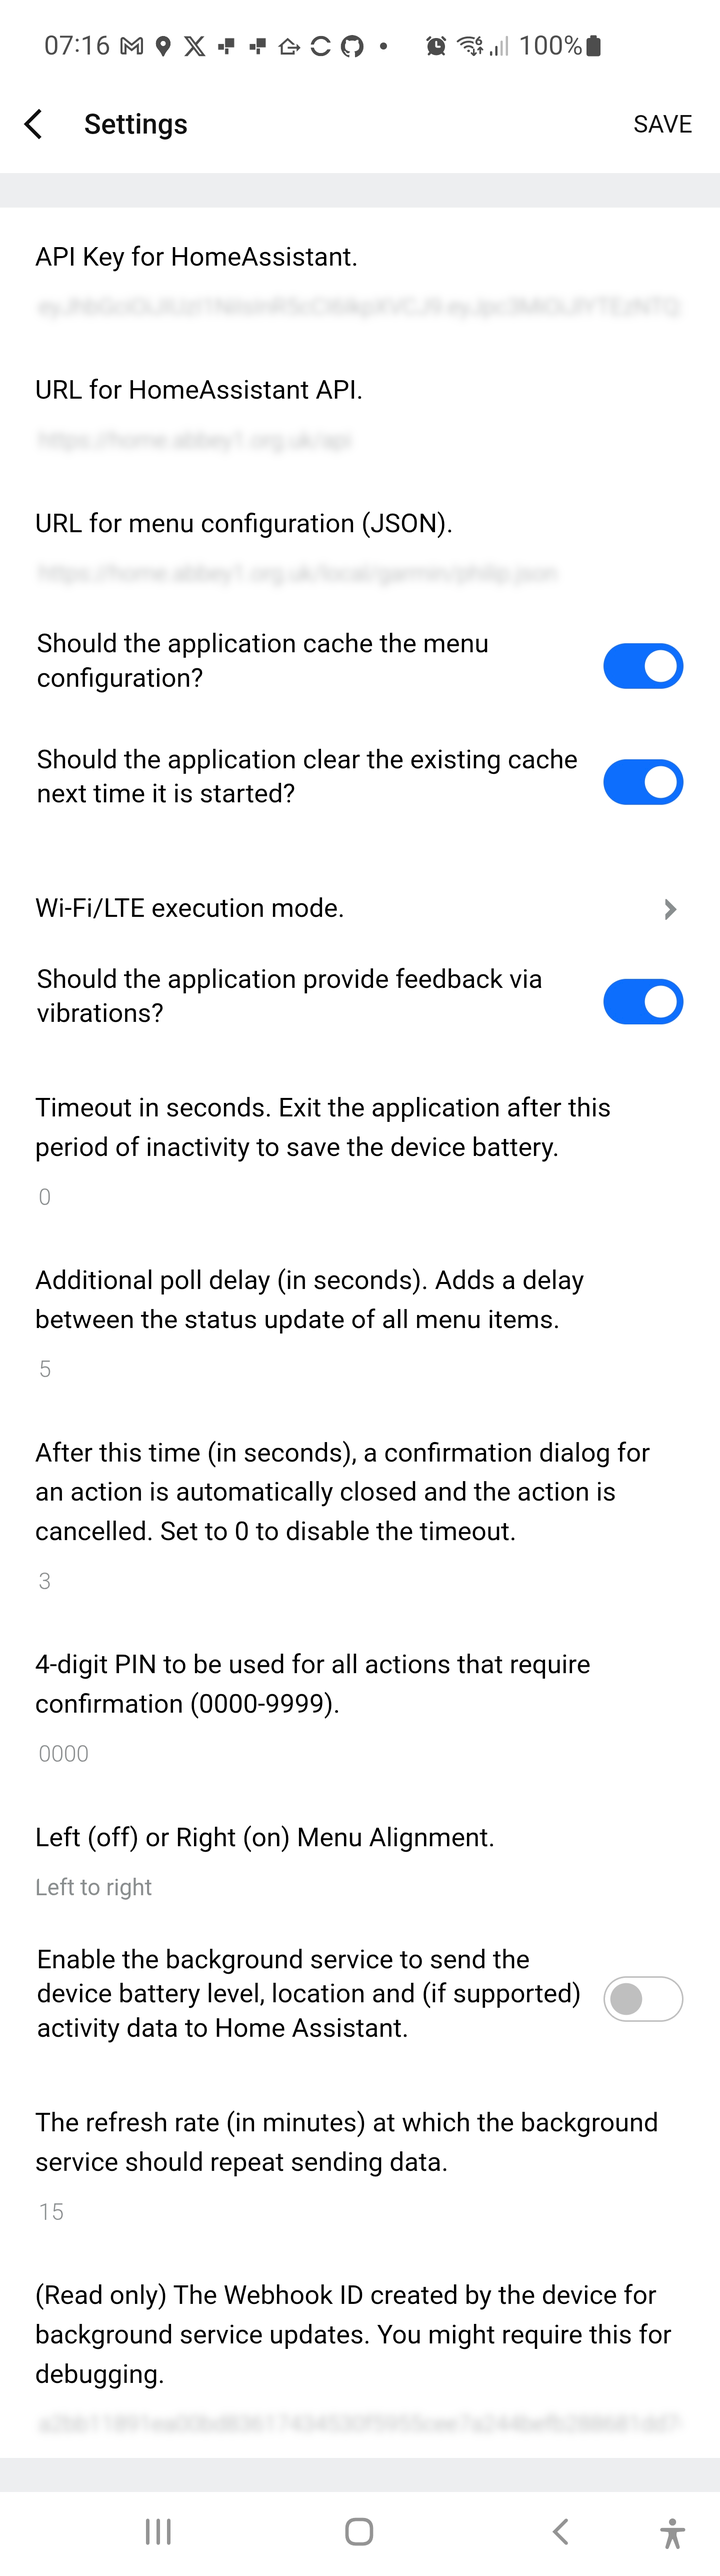
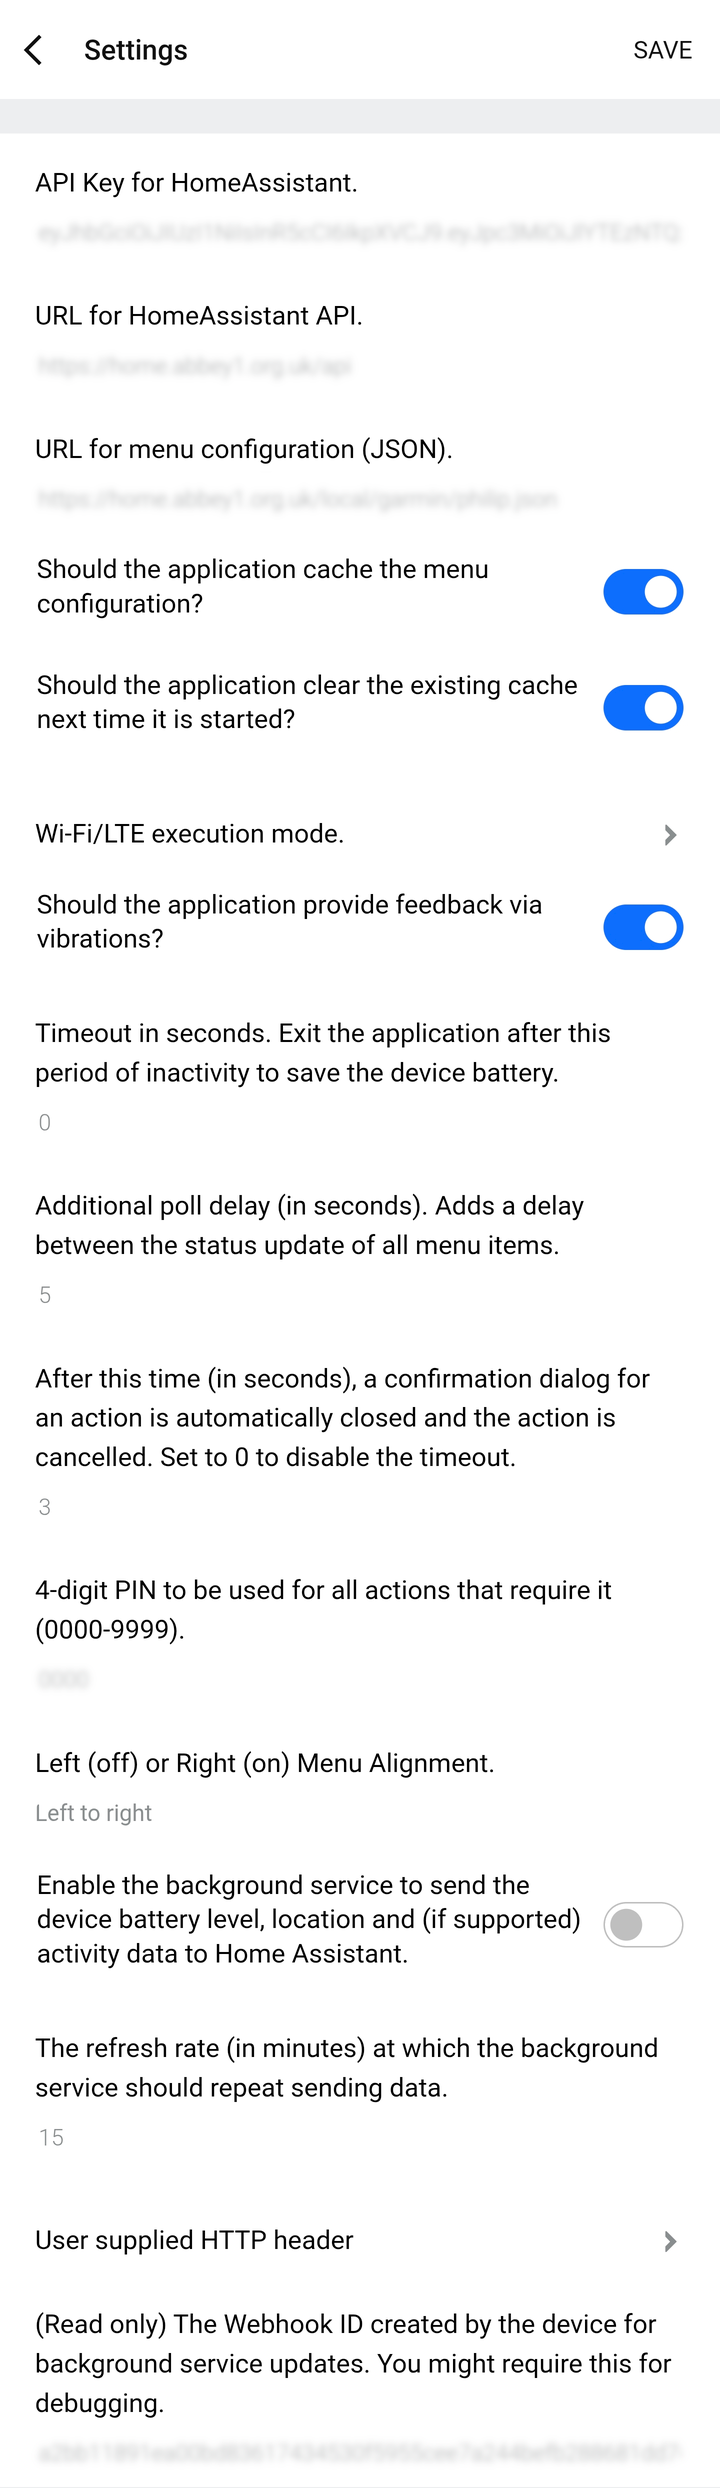
Documentation

diff --git a/Wi-Fi.md b/Wi-Fi.md
@@ -1,4 +1,4 @@
-[Home](README.md) | [Switches](examples/Switches.md) | [Actions](examples/Actions.md) | [Templates](examples/Templates.md) | [Glance](examples/Glance.md) | [Background Service](BackgroundService.md) | [Wi-Fi](Wi-Fi.md) | [Trouble Shooting](TroubleShooting.md) | [Version History](HISTORY.md)
+[Home](README.md) | [Switches](examples/Switches.md) | [Actions](examples/Actions.md) | [Templates](examples/Templates.md) | [Glance](examples/Glance.md) | [Background Service](BackgroundService.md) | [Wi-Fi](Wi-Fi.md) | [HTTP Headers](HTTP_Headers.md) | [Trouble Shooting](TroubleShooting.md) | [Version History](HISTORY.md)
 
 # Wi-Fi & LTE
 
@@ -17,14 +17,17 @@ With version 3.0 onwards the application now includes the ability to temporarily
 4. Remember that you need to be within range of your watch's configured Wi-Fi access point to utilize this functionality. If supported by your device, LTE offers a longer range, but network charges may apply.
 
 5. On some Garmin devices, the HTTPS handshake is performed using **TLS 1.2**. If your server or proxy enforces a higher minimum (e.g., TLS 1.3), you will encounter an SSL handshake error with the message:  
+
    ```
    HTTP request returned error code = 0
    ```
+
    This limitation only affects **Wi-Fi/LTE connections**. When connected over **Bluetooth**, the watch routes requests through the paired phone, which handles the TLS handshake and supports newer TLS versions (such as 1.3) without issue.  
 
    To fix this, lower the minimum TLS setting to allow TLS 1.2. For example, if you are using **Cloudflare Tunneling**, go to:  
    `SSL/TLS → Edge Certificates → Minimum TLS Version`  
    and set it to **at most TLS 1.2**. _Reducing below TLS 1.2 is not recommended due to security risks._
+
 ## Video
 
 This video using will hopefully make it obvious how slow it is to use the Wi-Fi option and illustrate the cautionary notes above.

diff --git a/README.md b/README.md
@@ -1,4 +1,4 @@
-[Home](README.md) | [Switches](examples/Switches.md) | [Actions](examples/Actions.md) | [Templates](examples/Templates.md) | [Glance](examples/Glance.md) | [Background Service](BackgroundService.md) | [Wi-Fi](Wi-Fi.md) | [Trouble Shooting](TroubleShooting.md) | [Version History](HISTORY.md)
+[Home](README.md) | [Switches](examples/Switches.md) | [Actions](examples/Actions.md) | [Templates](examples/Templates.md) | [Glance](examples/Glance.md) | [Background Service](BackgroundService.md) | [Wi-Fi](Wi-Fi.md) | [HTTP Headers](HTTP_Headers.md) | [Trouble Shooting](TroubleShooting.md) | [Version History](HISTORY.md)
 
 # GarminHomeAssistant
 
@@ -339,3 +339,7 @@ The `id` attribute values are taken from the same names used in [`strings.xml`](
 8. There is a [bug in Garmin Express so that when you use that software to amend the application's settings](https://github.com/house-of-abbey/GarminHomeAssistant/issues/194), the page appears in a random language not of your choice. I would like to thank user [heviiguy](https://github.com/heviiguy) for his work researching the issue, leading to these references that indicate the authors of Garmin Home Assistant cannot resolve this issue as its a bug in Garmin Express that Garmin are refusing to believe exists! See these pages for details:
    - [Garmin Express - Wrong Language](https://forums.garmin.com/developer/connect-iq/i/bug-reports/garmin-express---wrong-language)
    - [Incorrect language displayed for custom data fields](https://forums.garmin.com/developer/connect-iq/f/discussion/388137/incorrect-language-displayed-for-custom-data-fields)
+
+# Authors & Contributors
+
+For an up to date list of all authors and contributors, please check the [contributor's page](https://github.com/house-of-abbey/GarminHomeAssistant/graphs/contributors). Thank you all for improving this application.

diff --git a/HTTP_Headers.md b/HTTP_Headers.md
@@ -1,0 +1,27 @@
+[Home](README.md) | [Switches](examples/Switches.md) | [Actions](examples/Actions.md) | [Templates](examples/Templates.md) | [Glance](examples/Glance.md) | [Background Service](BackgroundService.md) | [Wi-Fi](Wi-Fi.md) | [HTTP Headers](HTTP_Headers.md) | [Trouble Shooting](TroubleShooting.md) | [Version History](HISTORY.md)
+
+# User Specified Custom HTTP Headers
+
+Principally for those who use Home Assistant add-on [Cloudflared](https://github.com/brenner-tobias/addon-cloudflared) in order to provide additional security via Cloudflare's Web Application Firewall (WAF). But the solution is generic enough for other use cases.
+
+Please let us know if this solution is found to be useful for other situations.
+
+## Setup
+
+The main settings includes a sub-menu for the user supplied HTTP header.
+
+<img src="images/http_header_submenu_item.png" width="400" title="Application Settings"/>
+
+The sub-menu contains two options for users to specify both the HTTP header name and the value as two free form strings.
+
+<img src="images/http_header_settings.png" width="400" title="Application Settings"/>
+
+## Support
+
+**None!**
+
+The authors of the Garmin Home Assistant application do not use, and hence do not know, the [Cloudflared](https://github.com/brenner-tobias/addon-cloudflared) add-on. While we have enabled the HTTP headers to support using this add-on, it does mean _you support yourself_. Please do not raise issues about this functionality unless you are supplying the answers for any required changes too!
+
+## Credits
+
+With thanks to Lars Pöpperl ([@tispokes](https://github.com/tispokes)) for contributing to this solution.

diff --git a/HISTORY.md b/HISTORY.md
@@ -1,4 +1,4 @@
-[Home](README.md) | [Switches](examples/Switches.md) | [Actions](examples/Actions.md) | [Templates](examples/Templates.md) | [Glance](examples/Glance.md) | [Background Service](BackgroundService.md) | [Wi-Fi](Wi-Fi.md) | [Trouble Shooting](TroubleShooting.md) | [Version History](HISTORY.md)
+[Home](README.md) | [Switches](examples/Switches.md) | [Actions](examples/Actions.md) | [Templates](examples/Templates.md) | [Glance](examples/Glance.md) | [Background Service](BackgroundService.md) | [Wi-Fi](Wi-Fi.md) | [HTTP Headers](HTTP_Headers.md) | [Trouble Shooting](TroubleShooting.md) | [Version History](HISTORY.md)
 
 # Version History
 
@@ -46,3 +46,4 @@
 |   2.31  | Adding [two new options](./examples/Actions.md#exit-on-tap) to the menu items: 1) The ability to disable a menu item, e.g. temporarily for seasonal changes, 2) The option to exit after a menu item has been select. |
 |   2.32  | Bug fix for a breaking change extracting options caused by the need to rearrange function parameters for an [annoying compiler error](https://github.com/house-of-abbey/GarminHomeAssistant/issues/253). |
 |   3.0   | First version with the ability to use [Wi-Fi or LTE](Wi-Fi.md) instead of Bluetooth but with limited functionality, thanks to [@vincentezw](https://github.com/vincentezw). |
+|   3.1   | Added the ability for users to provide custom HTTP headers for their Home Assistant server. Improved German language translations. |

diff --git a/TroubleShooting.md b/TroubleShooting.md
@@ -1,4 +1,4 @@
-[Home](README.md) | [Switches](examples/Switches.md) | [Actions](examples/Actions.md) | [Templates](examples/Templates.md) | [Glance](examples/Glance.md) | [Background Service](BackgroundService.md) | [Wi-Fi](Wi-Fi.md) | [Trouble Shooting](TroubleShooting.md) | [Version History](HISTORY.md)
+[Home](README.md) | [Switches](examples/Switches.md) | [Actions](examples/Actions.md) | [Templates](examples/Templates.md) | [Glance](examples/Glance.md) | [Background Service](BackgroundService.md) | [Wi-Fi](Wi-Fi.md) | [HTTP Headers](HTTP_Headers.md) | [Trouble Shooting](TroubleShooting.md) | [Version History](HISTORY.md)
 
 # Troubleshooting Guides
 

diff --git a/BackgroundService.md b/BackgroundService.md
@@ -1,4 +1,4 @@
-[Home](README.md) | [Switches](examples/Switches.md) | [Actions](examples/Actions.md) | [Templates](examples/Templates.md) | [Glance](examples/Glance.md) | [Background Service](BackgroundService.md) | [Wi-Fi](Wi-Fi.md) | [Trouble Shooting](TroubleShooting.md) | [Version History](HISTORY.md)
+[Home](README.md) | [Switches](examples/Switches.md) | [Actions](examples/Actions.md) | [Templates](examples/Templates.md) | [Glance](examples/Glance.md) | [Background Service](BackgroundService.md) | [Wi-Fi](Wi-Fi.md) | [HTTP Headers](HTTP_Headers.md) | [Trouble Shooting](TroubleShooting.md) | [Version History](HISTORY.md)
 
 # Background Service
 

diff --git a/examples/Templates.md b/examples/Templates.md
@@ -1,4 +1,4 @@
-[Home](../README.md) | [Switches](Switches.md) | [Actions](Actions.md) | [Templates](Templates.md) | [Glance](Glance.md) | [Background Service](../BackgroundService.md) | [Wi-Fi](../Wi-Fi.md) | [Trouble Shooting](../TroubleShooting.md) | [Version History](../HISTORY.md)
+[Home](../README.md) | [Switches](Switches.md) | [Actions](Actions.md) | [Templates](Templates.md) | [Glance](Glance.md) | [Background Service](../BackgroundService.md) | [Wi-Fi](../Wi-Fi.md) | [HTTP Headers](../HTTP_Headers.md) | [Trouble Shooting](../TroubleShooting.md) | [Version History](../HISTORY.md)
 
 # Templates
 

diff --git a/examples/Switches.md b/examples/Switches.md
@@ -1,4 +1,4 @@
-[Home](../README.md) | [Switches](Switches.md) | [Actions](Actions.md) | [Templates](Templates.md) | [Glance](Glance.md) | [Background Service](../BackgroundService.md) | [Wi-Fi](../Wi-Fi.md) | [Trouble Shooting](../TroubleShooting.md) | [Version History](../HISTORY.md)
+[Home](../README.md) | [Switches](Switches.md) | [Actions](Actions.md) | [Templates](Templates.md) | [Glance](Glance.md) | [Background Service](../BackgroundService.md) | [Wi-Fi](../Wi-Fi.md) | [HTTP Headers](../HTTP_Headers.md) | [Trouble Shooting](../TroubleShooting.md) | [Version History](../HISTORY.md)
 
 # Switches
 

diff --git a/examples/Actions.md b/examples/Actions.md
@@ -1,4 +1,4 @@
-[Home](../README.md) | [Switches](Switches.md) | [Actions](Actions.md) | [Templates](Templates.md) | [Glance](Glance.md) | [Background Service](../BackgroundService.md) | [Wi-Fi](../Wi-Fi.md) | [Trouble Shooting](../TroubleShooting.md) | [Version History](../HISTORY.md)
+[Home](../README.md) | [Switches](Switches.md) | [Actions](Actions.md) | [Templates](Templates.md) | [Glance](Glance.md) | [Background Service](../BackgroundService.md) | [Wi-Fi](../Wi-Fi.md) | [HTTP Headers](../HTTP_Headers.md) | [Trouble Shooting](../TroubleShooting.md) | [Version History](../HISTORY.md)
 
 
 # Actions

diff --git a/examples/Glance.md b/examples/Glance.md
@@ -1,4 +1,4 @@
-[Home](../README.md) | [Switches](Switches.md) | [Actions](Actions.md) | [Templates](Templates.md) | [Glance](Glance.md) | [Background Service](../BackgroundService.md) | [Wi-Fi](../Wi-Fi.md) | [Trouble Shooting](../TroubleShooting.md) | [Version History](../HISTORY.md)
+[Home](../README.md) | [Switches](Switches.md) | [Actions](Actions.md) | [Templates](Templates.md) | [Glance](Glance.md) | [Background Service](../BackgroundService.md) | [Wi-Fi](../Wi-Fi.md) | [HTTP Headers](../HTTP_Headers.md) | [Trouble Shooting](../TroubleShooting.md) | [Version History](../HISTORY.md)
 
 # Glance
 
